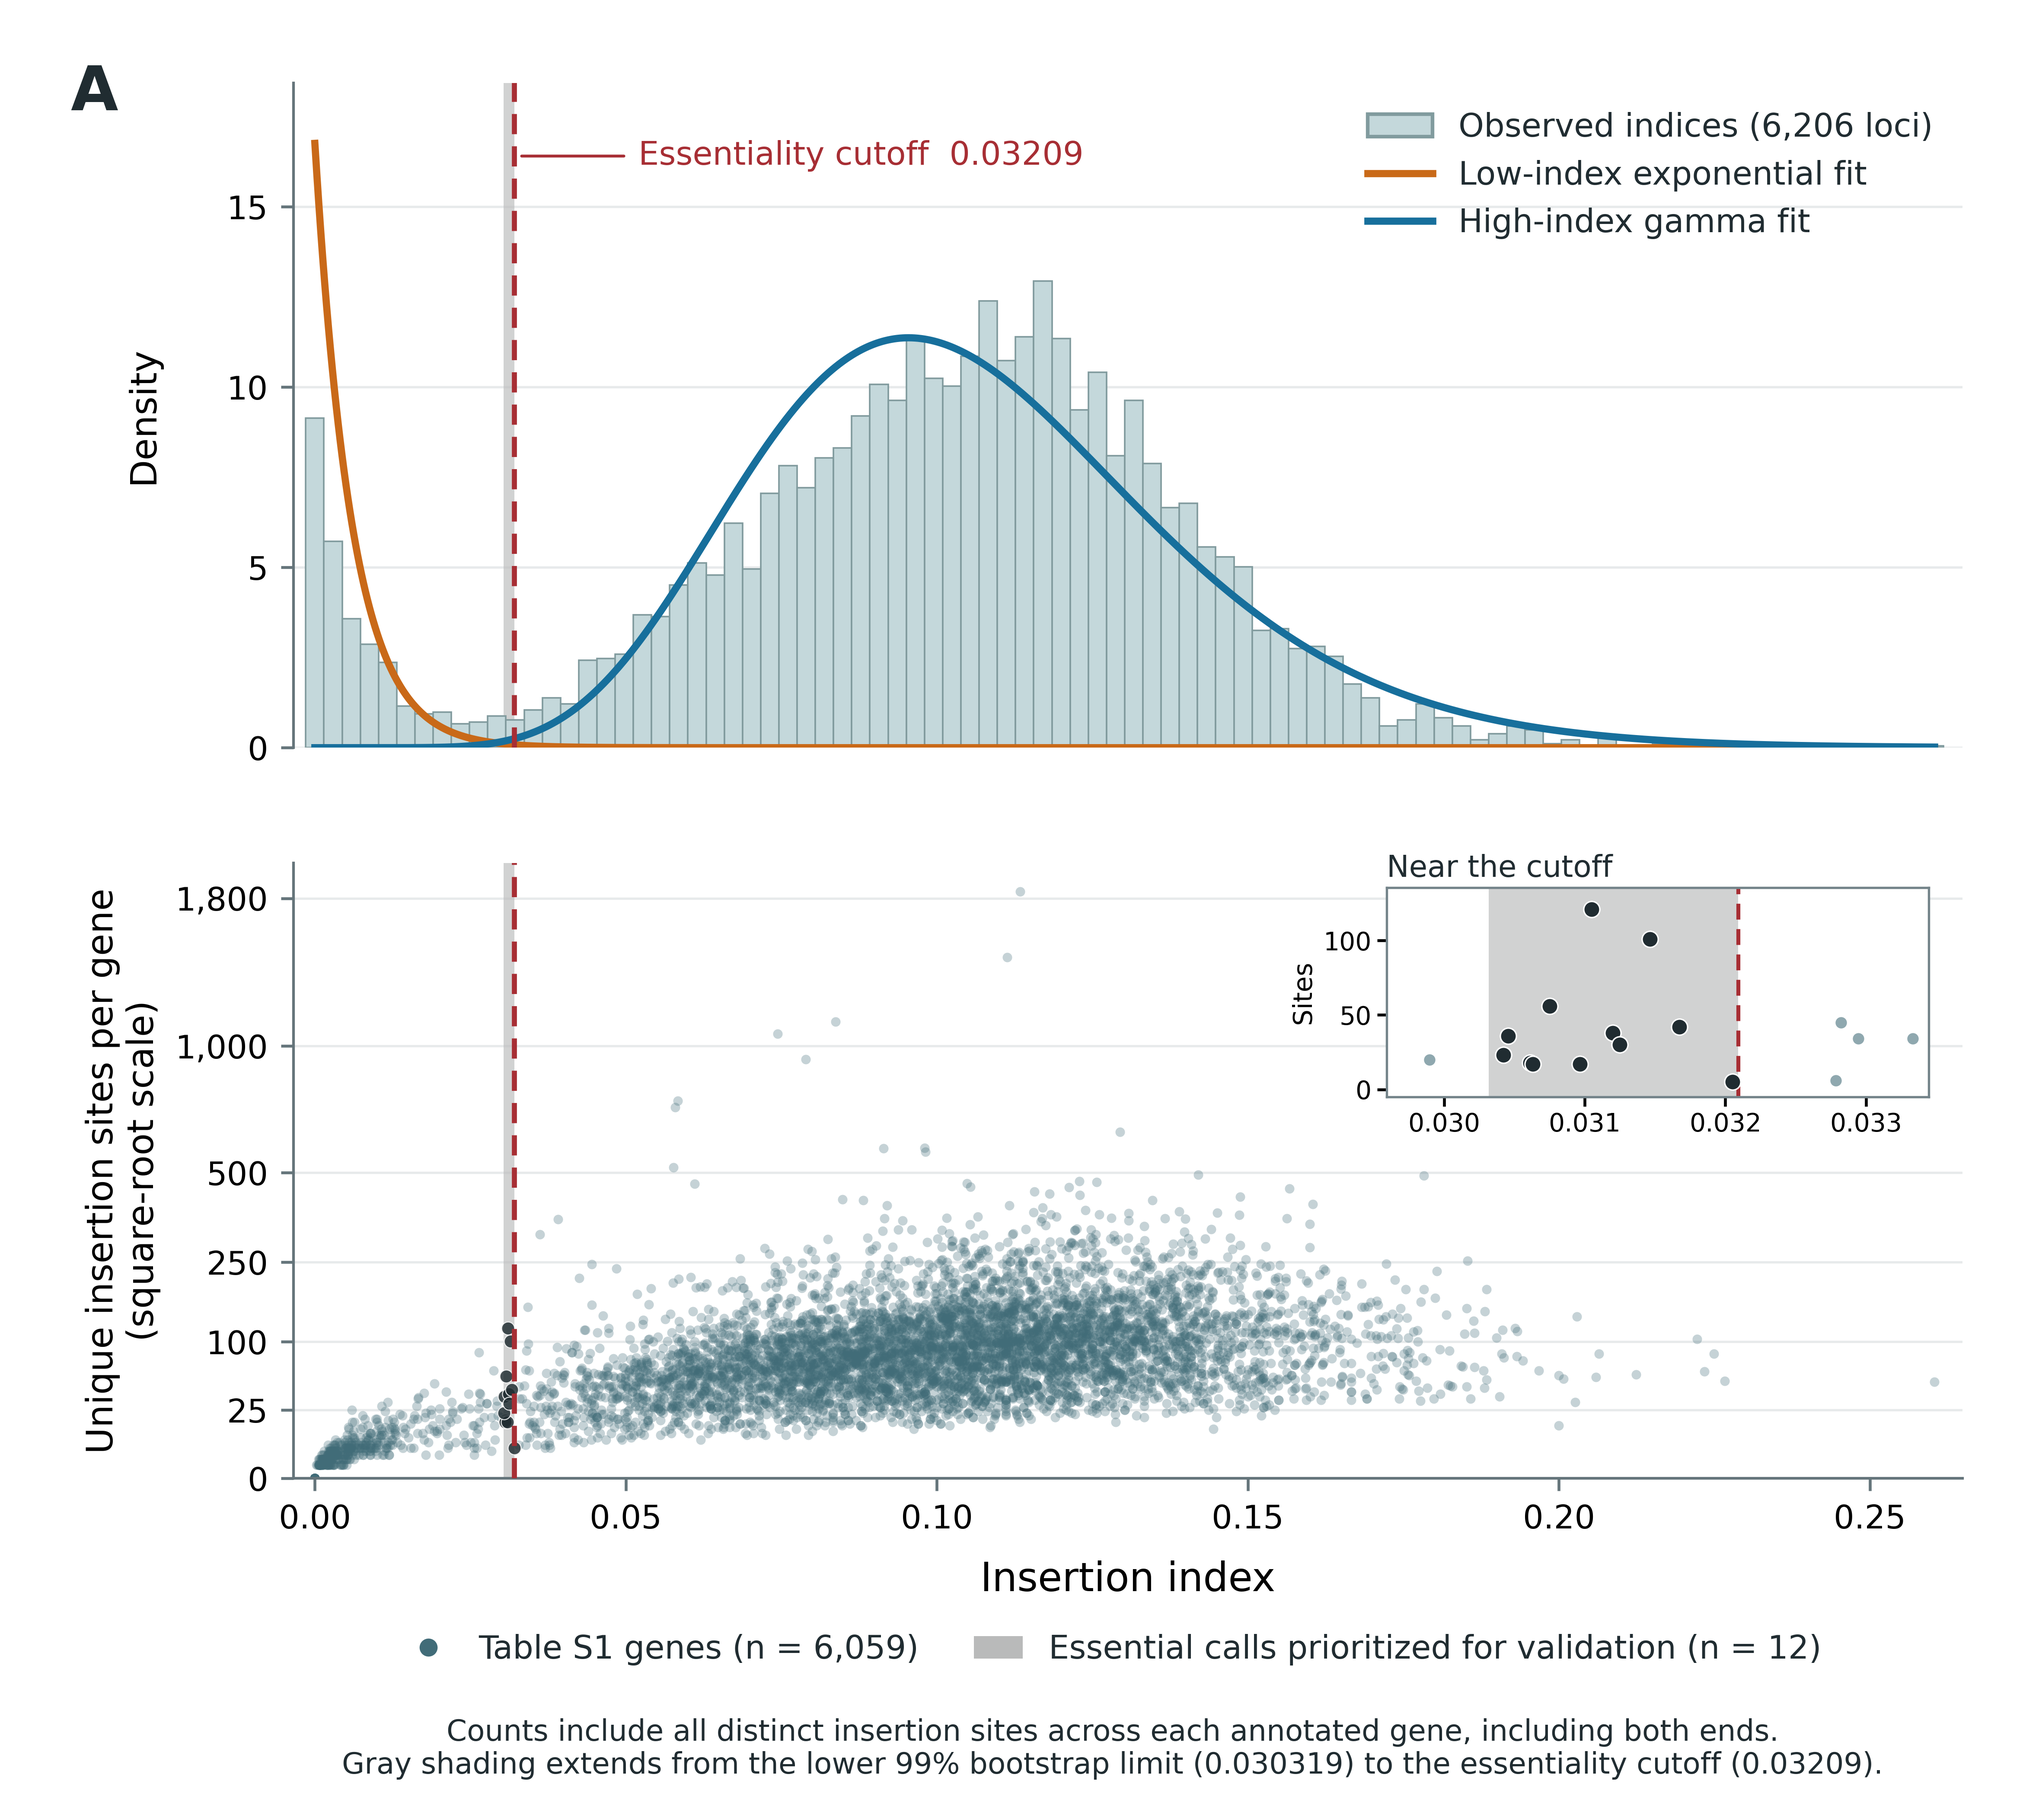
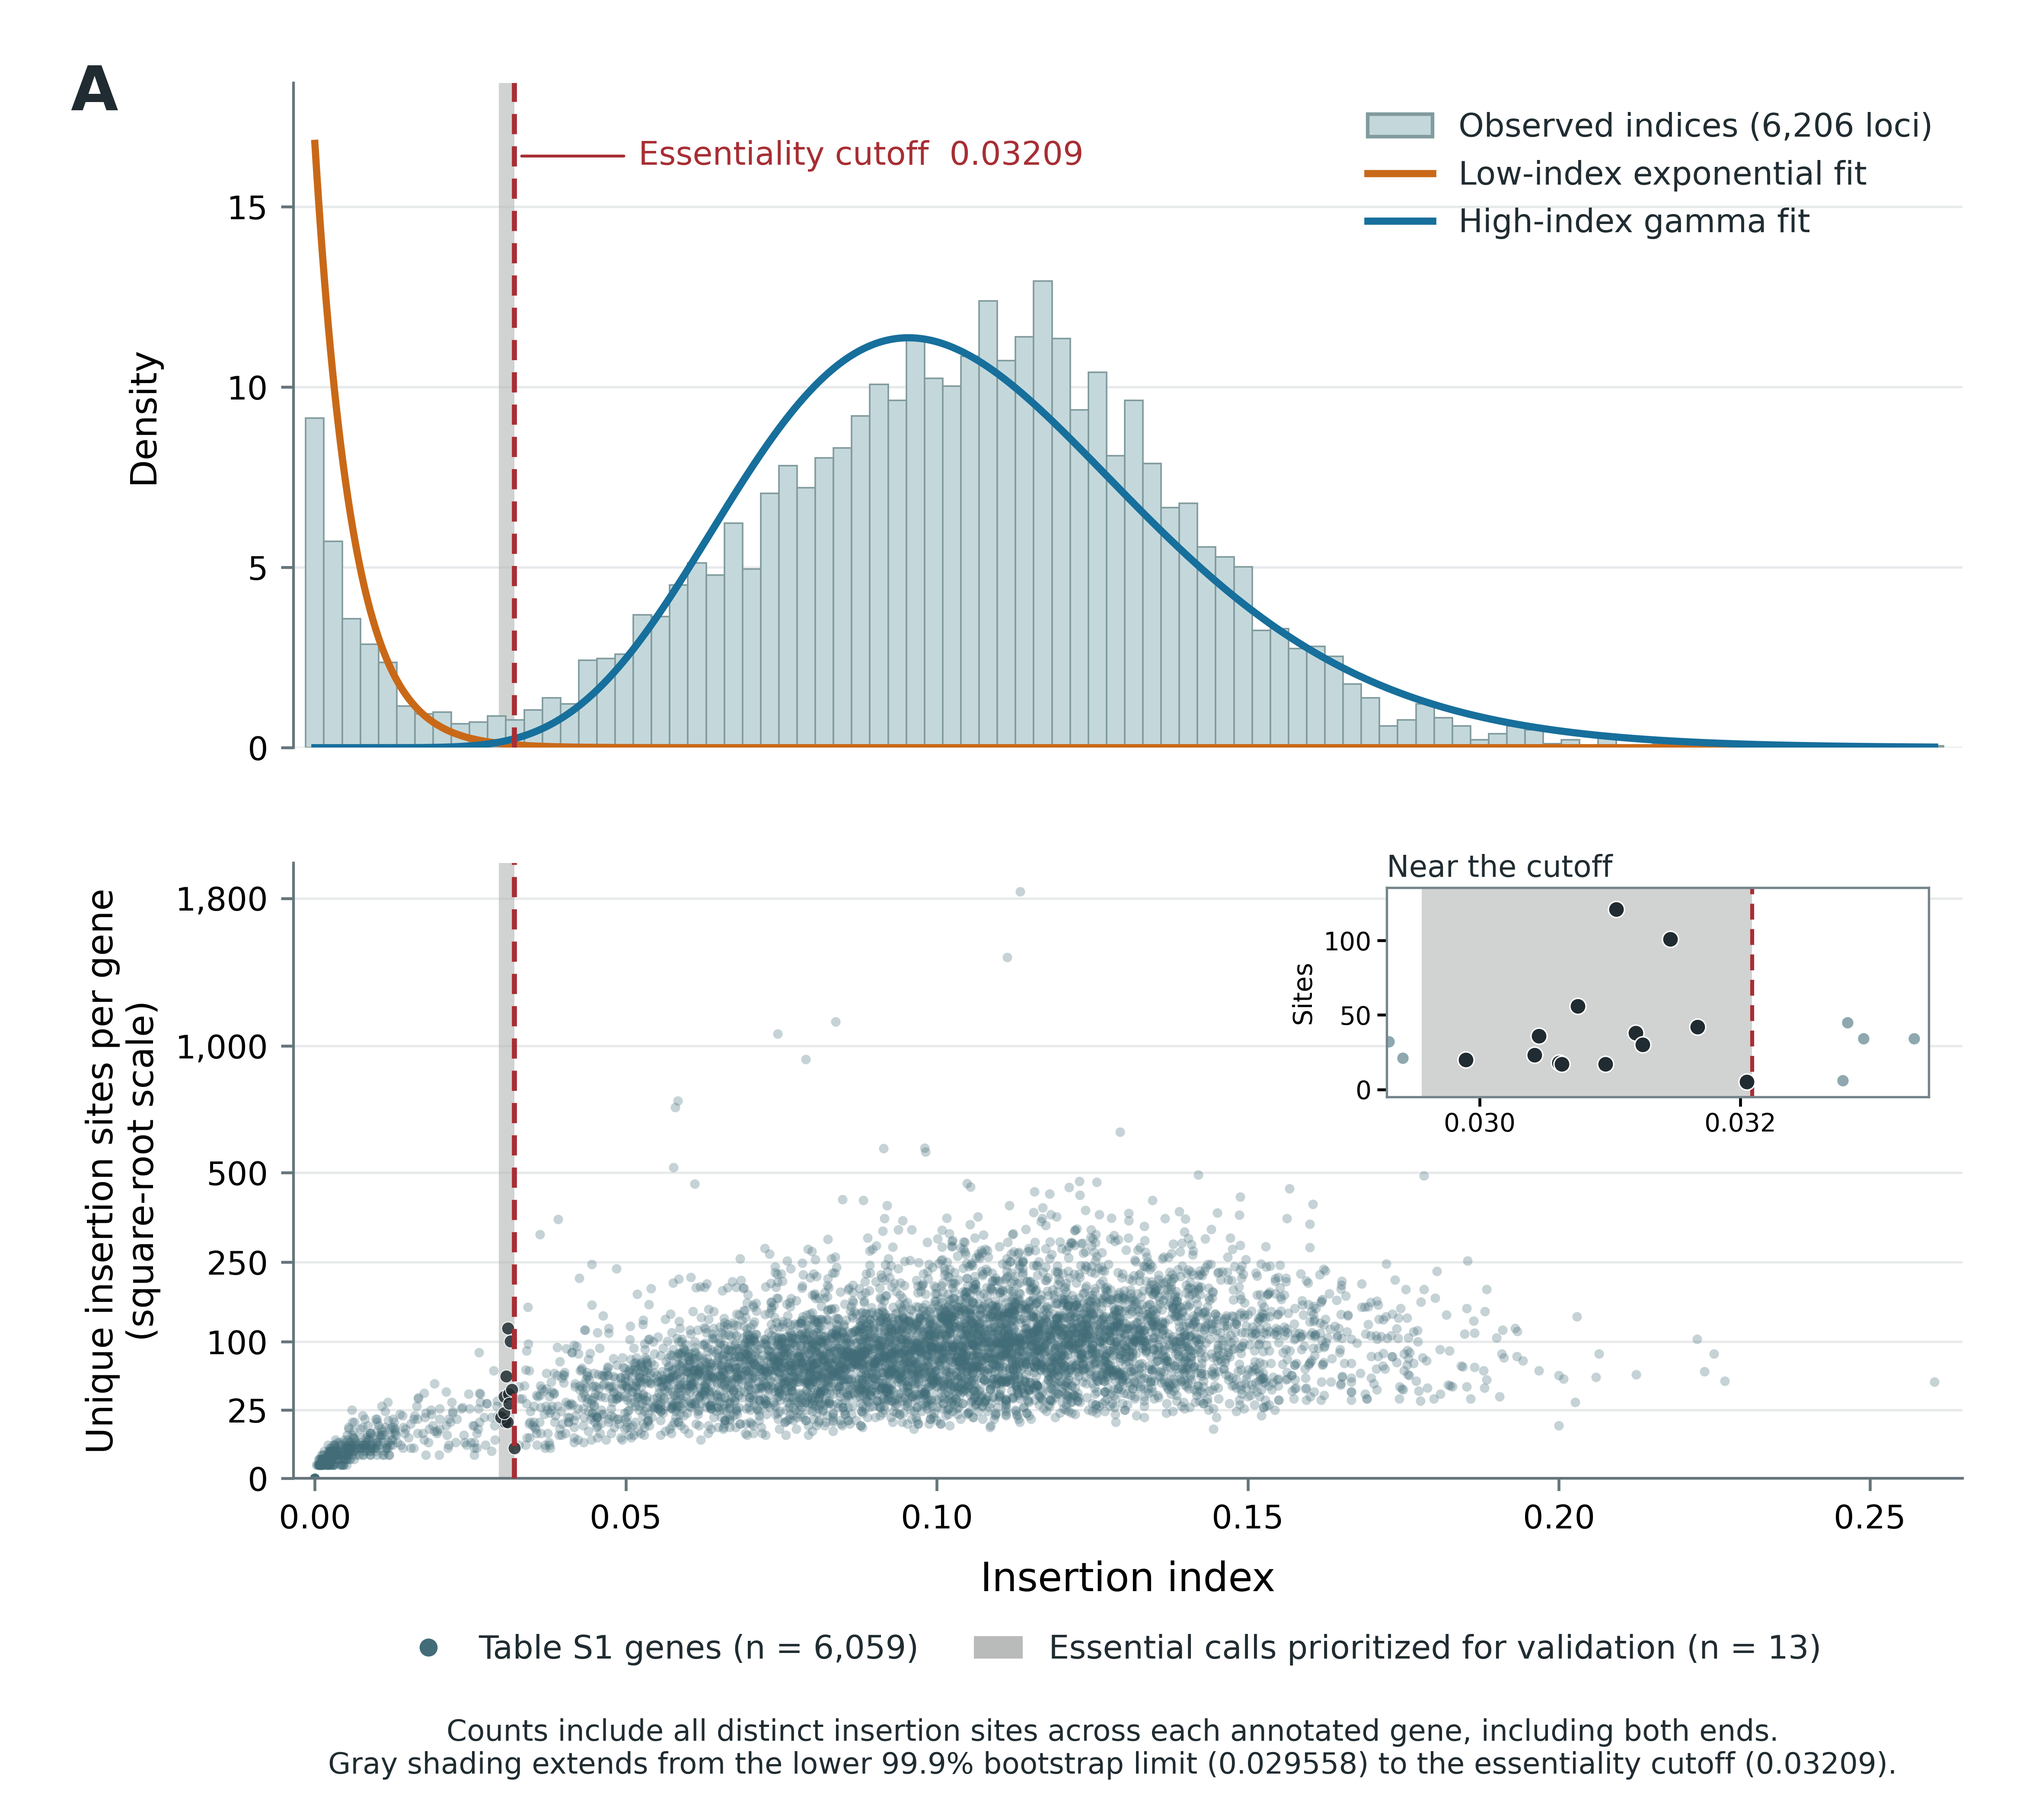
Use the 99.9% locus-bootstrap interval in Figure 2A

Changed region(s): [[0.156, 0.9664, 0.9359, 0.9976], [0.6863, 0.4676, 0.8735, 0.6235], [0.9047, 0.5923, 0.9359, 0.6235]]

diff --git a/figures/figure_2/plot_figure_2a.py b/figures/figure_2/plot_figure_2a.py
@@ -13,9 +13,11 @@ Use the "Table S1" worksheet in Supplementary tables (1-6).xlsx for the counts.
 The upper graph uses the raw indices and original model specification. The
 lower graph pairs the index and distinct-site count from each Table S1 row.
 Both inputs use the full annotated span, including the ends.
-The shaded interval extends from the lower limit of a two-sided 99% locus-
+The shaded interval extends from the lower limit of a two-sided 99.9% locus-
 bootstrap interval to the reported essentiality cutoff. Pass --confidence 95
-for the earlier confidence level. figure_2a_bootstrap.R regenerates the fit CSV.
+or --confidence 99 for the earlier levels. figure_2a_bootstrap.R regenerates the fit CSV.
+Use --sensitivity-percent 10 to shade essential calls that would fall outside
+the essential set if the cutoff were lowered by 10% of its reported value.
 """
 import argparse
 import csv
@@ -71,13 +73,13 @@ def read_table(path, cutoff):
     return np.array(indices), np.array(counts, dtype=int), np.array(essential, dtype=bool), np.array(list(genes))
 
 
-def read_fit(sites_path, fit_path, confidence=99):
+def read_fit(sites_path, fit_path, confidence=99.9):
     with fit_path.open(encoding="utf-8-sig") as handle:
         row, = csv.DictReader(handle)
     stats = {key: float(value) for key, value in row.items()}
-    lower_key, upper_key = f"lower_{confidence}", f"upper_{confidence}"
+    lower_key, upper_key = f"lower_{confidence:g}", f"upper_{confidence:g}"
     if lower_key not in stats or upper_key not in stats:
-        raise ValueError(f"The fit summary lacks the {confidence}% interval. "
+        raise ValueError(f"The fit summary lacks the {confidence:g}% interval. "
                          "Regenerate it with figure_2a_bootstrap.R or select an available confidence level.")
     lower, upper = stats[lower_key], stats[upper_key]
     with sites_path.open(encoding="utf-8-sig", newline="") as handle:
@@ -111,7 +113,7 @@ def read_fit(sites_path, fit_path, confidence=99):
                            confidence=confidence, loci=len(indices))
 
 
-def render(model, indices, counts, essential, lower, output):
+def render(model, indices, counts, essential, lower, output, sensitivity_percent=None):
     cutoff = model.essential_cutoff
     selected = essential & (indices >= lower) & (indices < cutoff)
     background = ~selected
@@ -164,7 +166,7 @@ def render(model, indices, counts, essential, lower, output):
     points.xaxis.set_major_formatter(FuncFormatter(lambda x, _: f"{x:.2f}"))
     # A magnified view makes the narrow validation band readable at print size.
     zoom = points.inset_axes([0.655, 0.62, 0.325, 0.34], zorder=6)
-    # Keep the earlier inset scale when comparing the two validation bands.
+    # Use the earlier inset scale as a common reference for the validation bands.
     span = cutoff - model.lower_95
     left = min(cutoff - 2.3 * span, lower - 0.25 * span)
     right = cutoff + 1.25 * span
@@ -191,10 +193,15 @@ def render(model, indices, counts, essential, lower, output):
         Patch(facecolor=BAND, label=f"Essential calls prioritized for validation (n = {selected.sum():,})")
     ], loc="lower center", bbox_to_anchor=(0.55, 0.060), frameon=False,
         ncol=2, columnspacing=1.7, fontsize=9, labelcolor=INK, handlelength=1.5)
+    if sensitivity_percent is None:
+        band_note = (f"Gray shading extends from the lower {model.confidence:g}% bootstrap limit ({lower:.6f}) "
+                     f"to the essentiality cutoff ({cutoff:.5f}).")
+    else:
+        band_note = (f"Gray shading marks the follow-up range from {sensitivity_percent:g}% below the cutoff "
+                     f"({lower:.6f}) to the cutoff ({cutoff:.5f}).")
     fig.text(0.55, 0.030,
              "Counts include all distinct insertion sites across each annotated gene, including both ends.\n"
-             f"Gray shading extends from the lower {model.confidence}% bootstrap limit ({lower:.6f}) "
-             f"to the essentiality cutoff ({cutoff:.5f}).",
+             + band_note,
              ha="center", va="center", fontsize=8.1, color=INK)
     fig.align_ylabels()
     fig.savefig(output, dpi=600, facecolor="white")
@@ -208,16 +215,24 @@ def main():
     parser.add_argument("--table-s1", type=Path, required=True)
     parser.add_argument("--fit", type=Path, default=Path(__file__).with_name("figure_2a_fit.csv"),
                         help="Fit and bootstrap summary from figure_2a_bootstrap.R")
-    parser.add_argument("--confidence", type=int, choices=(95, 99), default=99,
-                        help="Two-sided bootstrap confidence level for the validation band (default: 99)")
-    parser.add_argument("--output", type=Path, default=Path("Figure_2A.png"))
+    band = parser.add_mutually_exclusive_group()
+    band.add_argument("--confidence", type=float, choices=(95, 99, 99.9), default=99.9,
+                      help="Two-sided bootstrap confidence level for the validation band (default: 99.9)")
+    band.add_argument("--sensitivity-percent", type=float, metavar="PERCENT",
+                      help="Flag essential calls within this percentage below the reported cutoff")
+    parser.add_argument("--output", type=Path)
     args = parser.parse_args()
-    m = read_fit(args.sites, args.fit, args.confidence)
+    pct = args.sensitivity_percent
+    if pct is not None and not 0 < pct < 100:
+        parser.error("--sensitivity-percent must be greater than 0 and less than 100.")
+    m = read_fit(args.sites, args.fit, args.confidence if pct is None else 95)
     x, y, ess, tags = read_table(args.table_s1, m.essential_cutoff)
-    n = render(m, x, y, ess, m.lower, args.output)
+    lower = m.lower if pct is None else m.essential_cutoff * (1 - pct / 100)
+    default_name = "Figure_2A.png" if pct is None else f"Figure_2A_{pct:g}pct_sensitivity.png"
+    n = render(m, x, y, ess, lower, args.output or Path(default_name), pct)
     print(f"{len(x):,} genes; {ess.sum()} essential; {n} flagged "
-          f"({m.lower:.8f} <= insertion index < {m.essential_cutoff:.5f}).")
-    print("Flagged loci:", ", ".join(tags[ess & (x >= m.lower)]))
+          f"({lower:.8f} <= insertion index < {m.essential_cutoff:.5f}).")
+    print("Flagged loci:", ", ".join(tags[ess & (x >= lower)]))
 
 
 if __name__ == "__main__":
